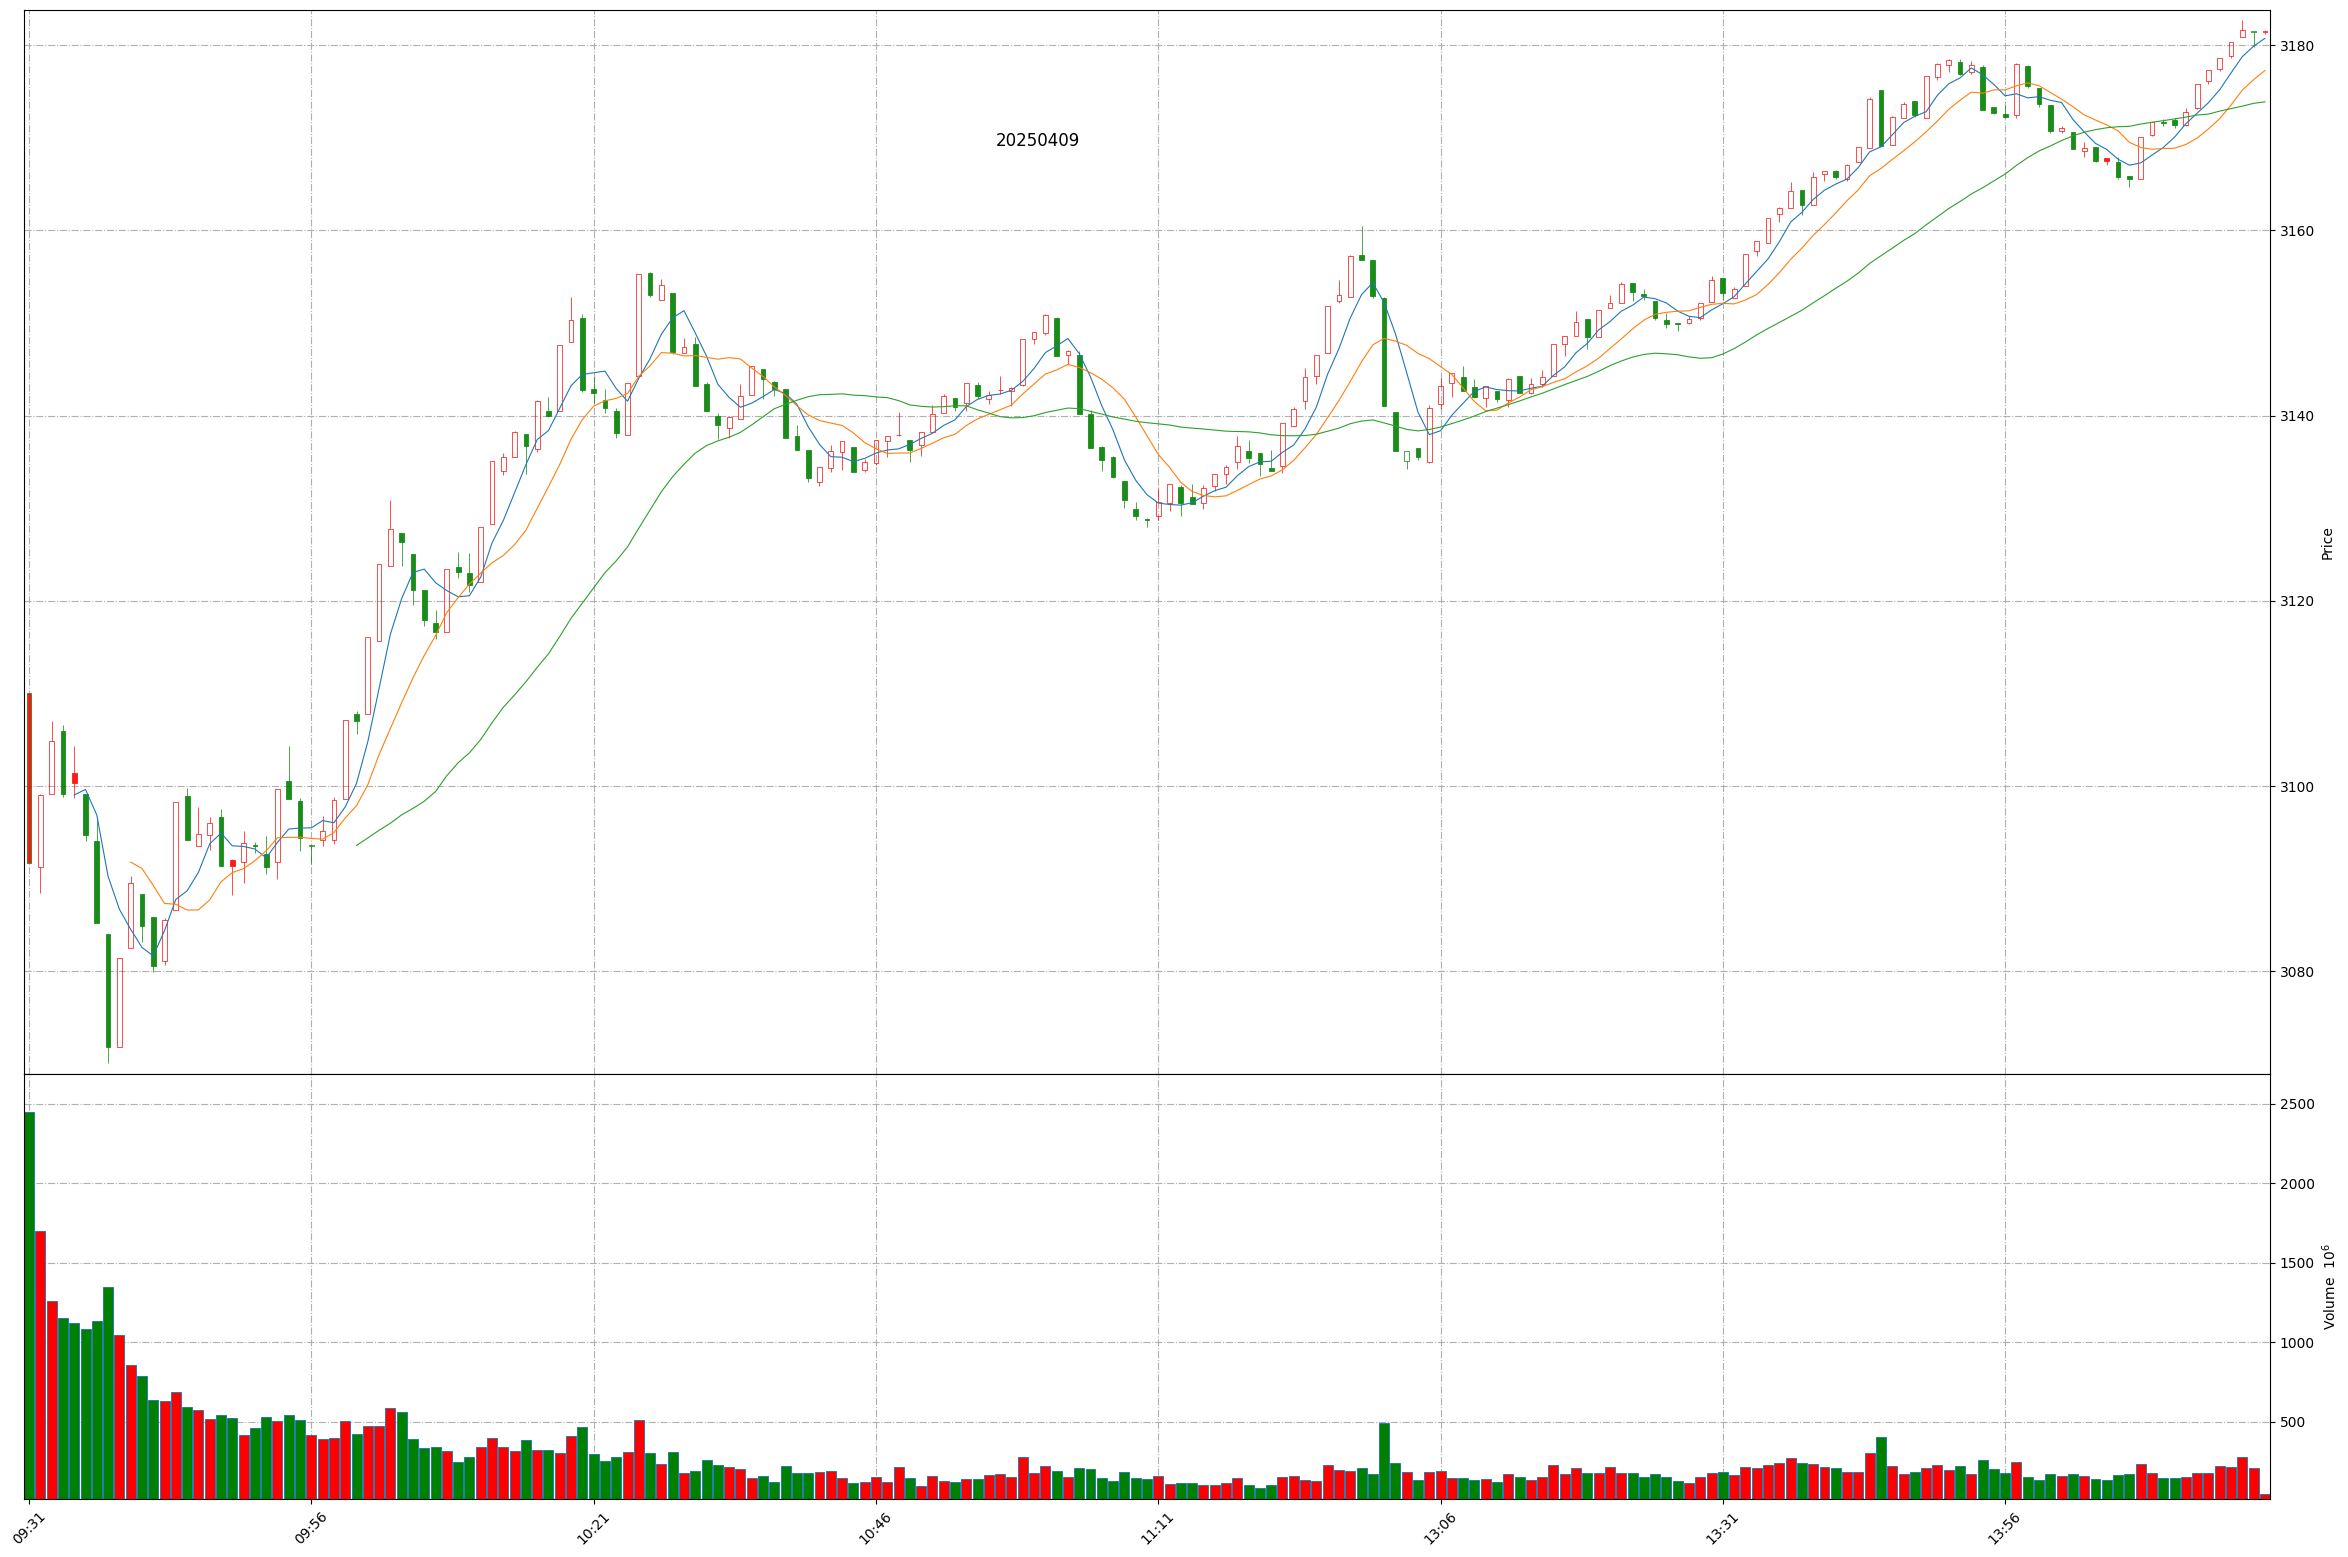
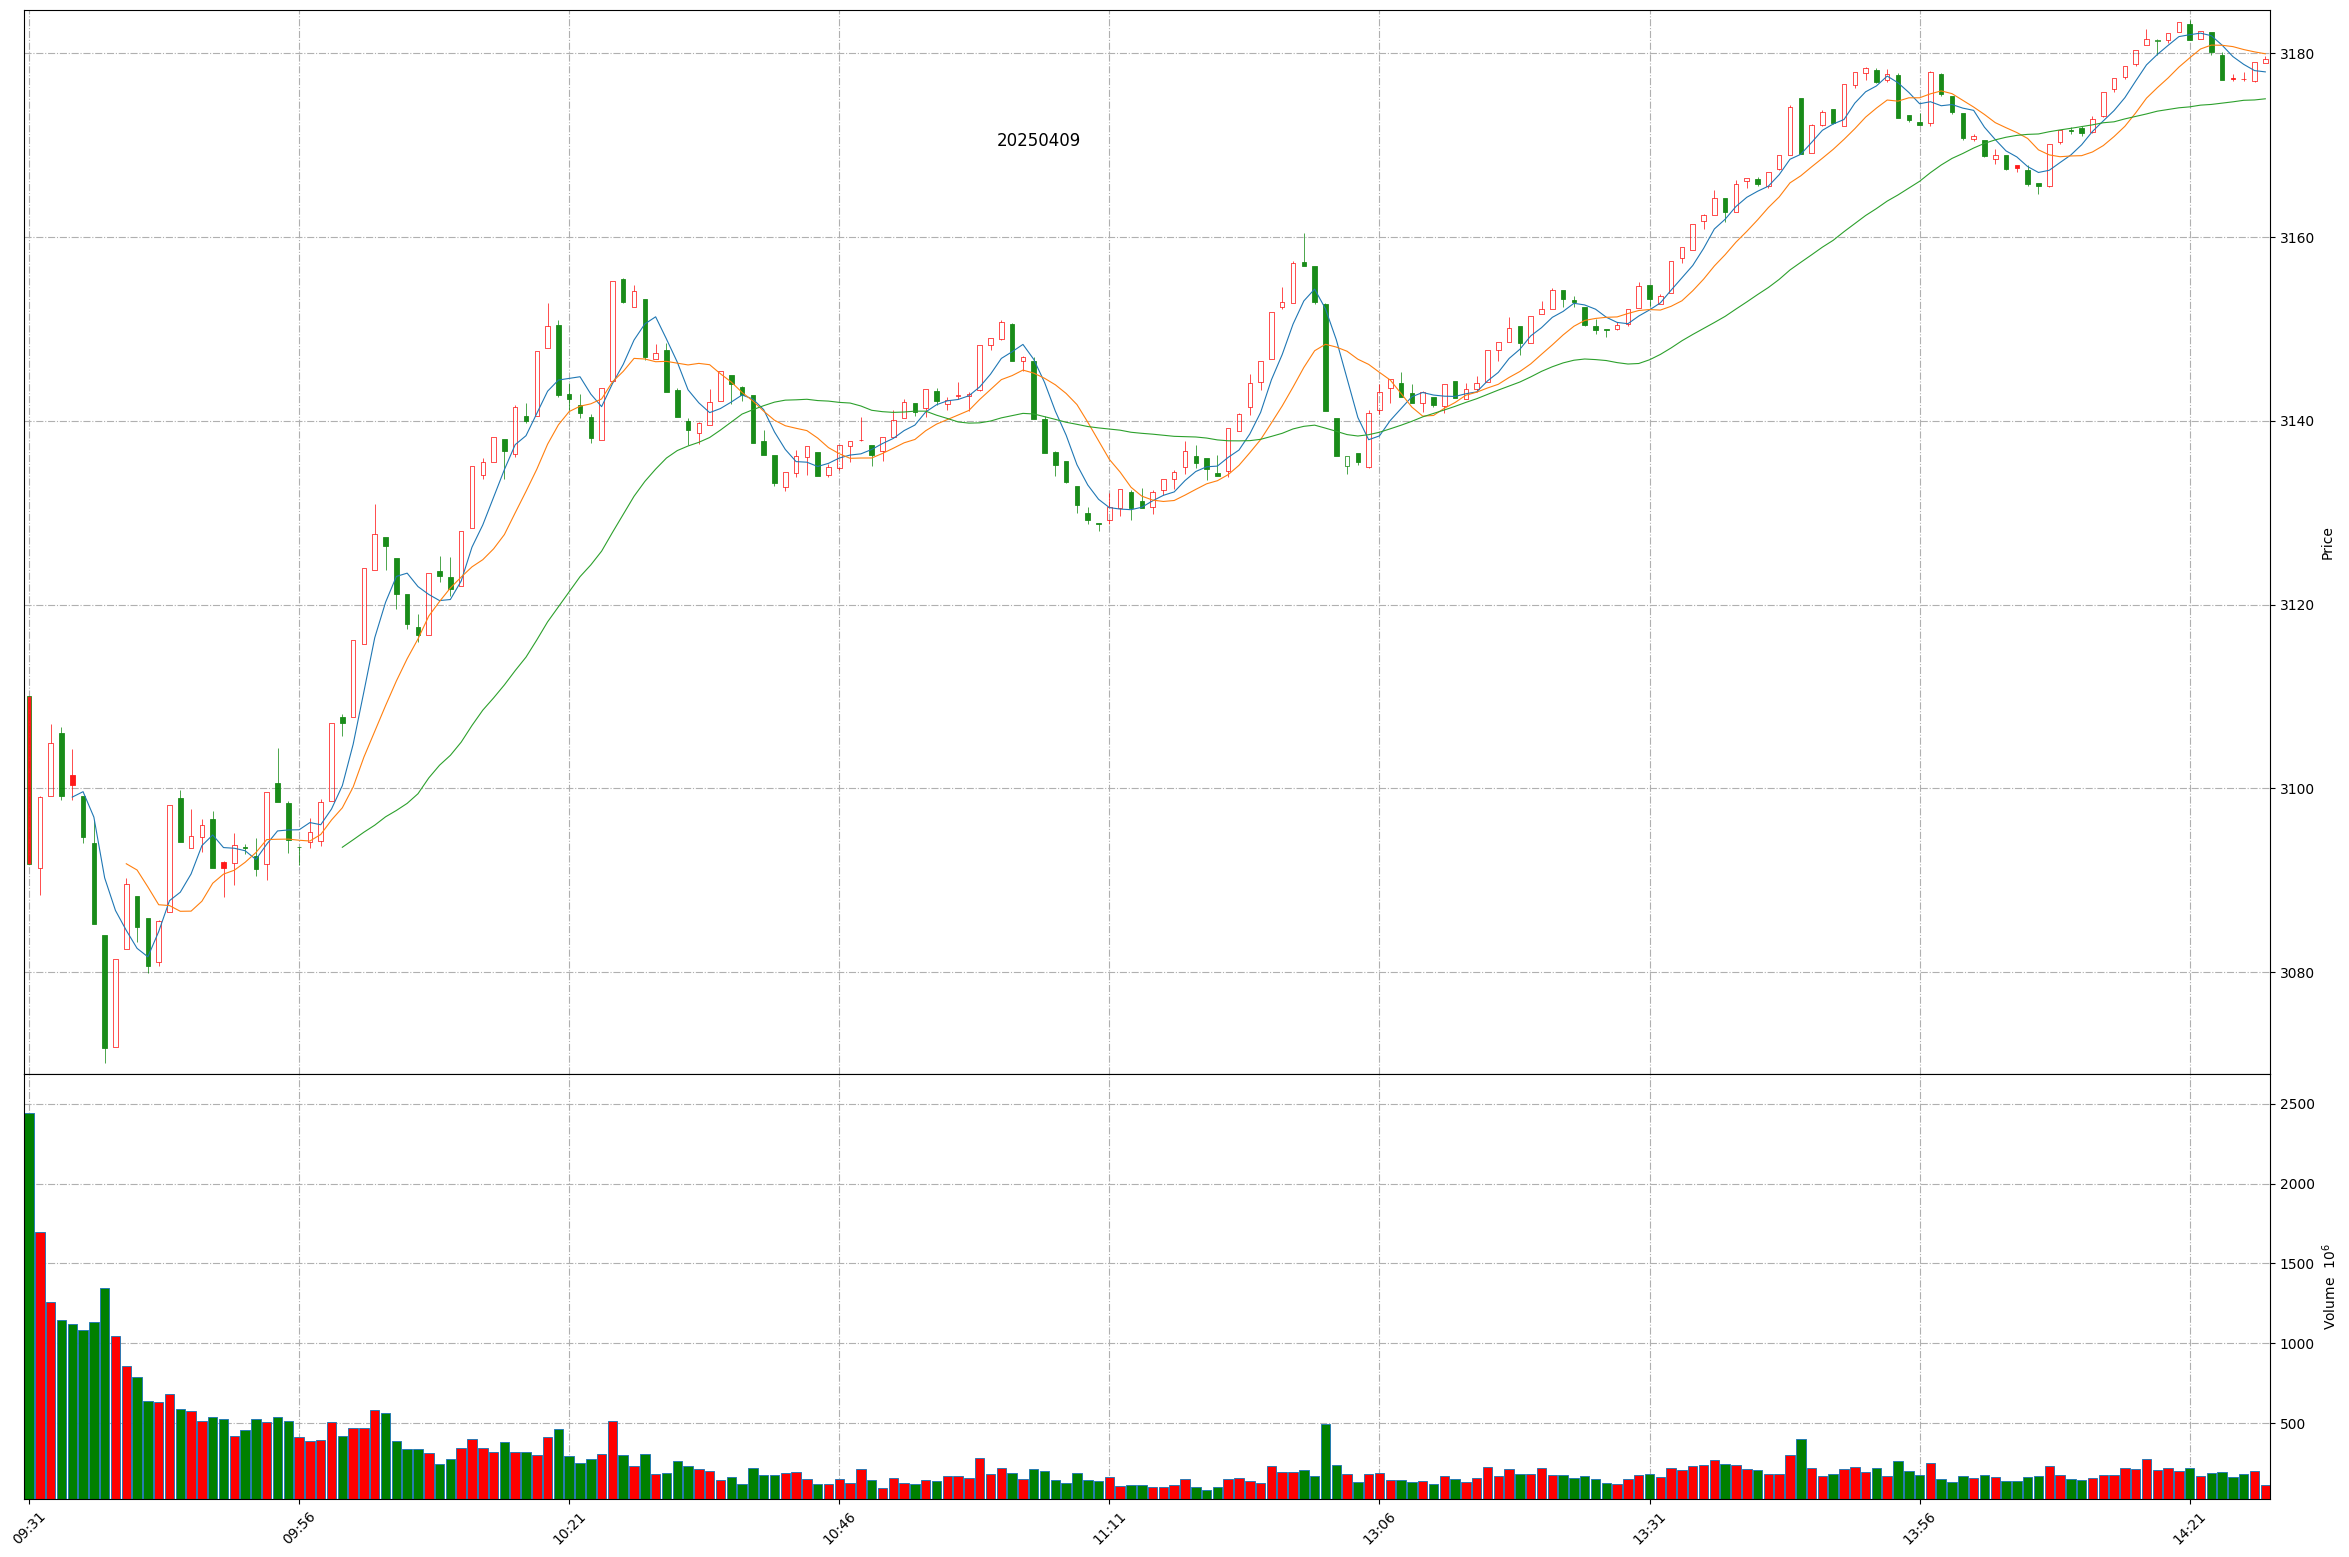
Github action update at 2025-04-09 14:28:00.

diff --git a/README.md b/README.md
@@ -1,11 +1,11 @@
 
 # Daily-A-share-market-quotes 每日 A 股指数（5min 更新）- 20250409
 
-### 上证指数 20250409 14:18
+### 上证指数 20250409 14:28
 ![](./fig/2025/4/20250409-sh000001.png)
 
-### 深证成指 20250409 14:18
+### 深证成指 20250409 14:28
 ![](./fig/2025/4/20250409-sz399001.png)
 
-### 北证50 20250409 14:18
+### 北证50 20250409 14:28
 ![](./fig/2025/4/20250409-bj899050.png)
